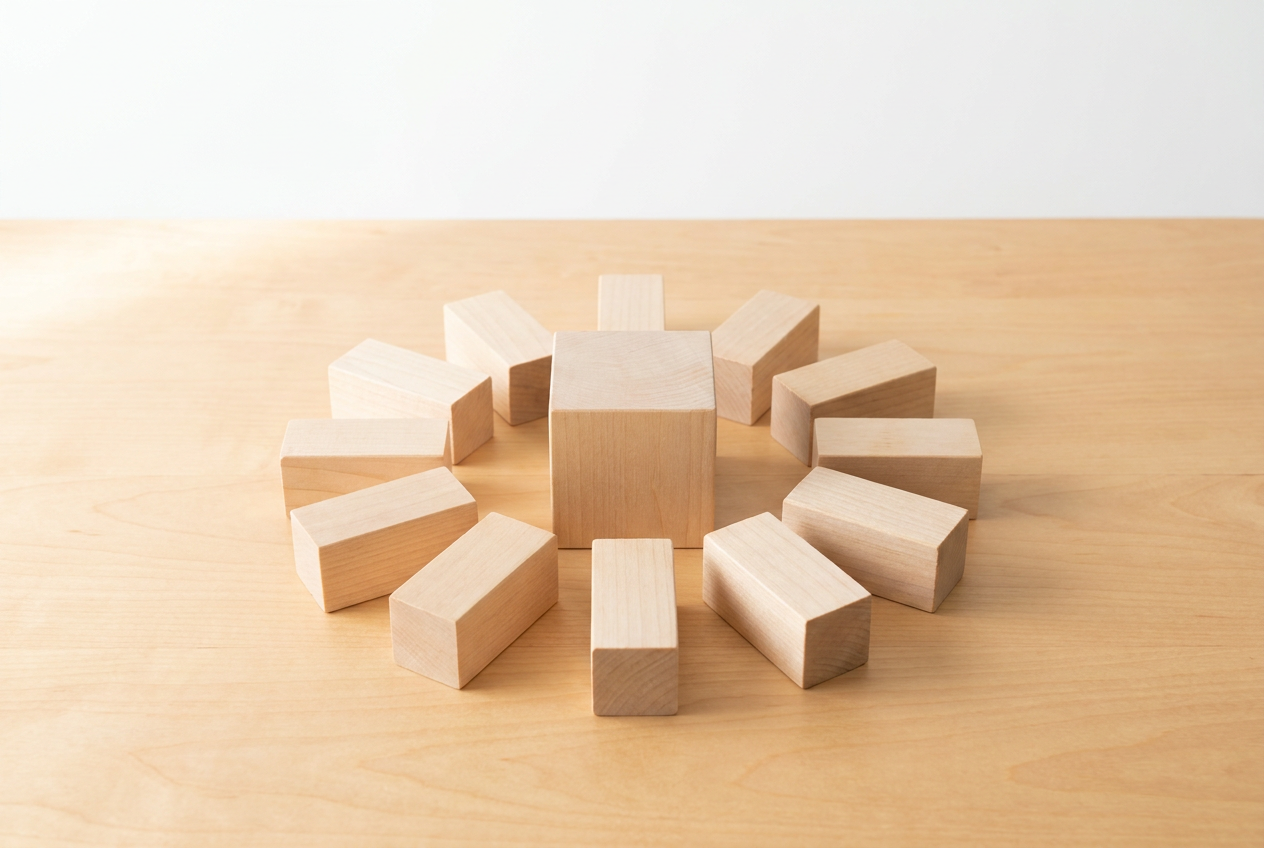
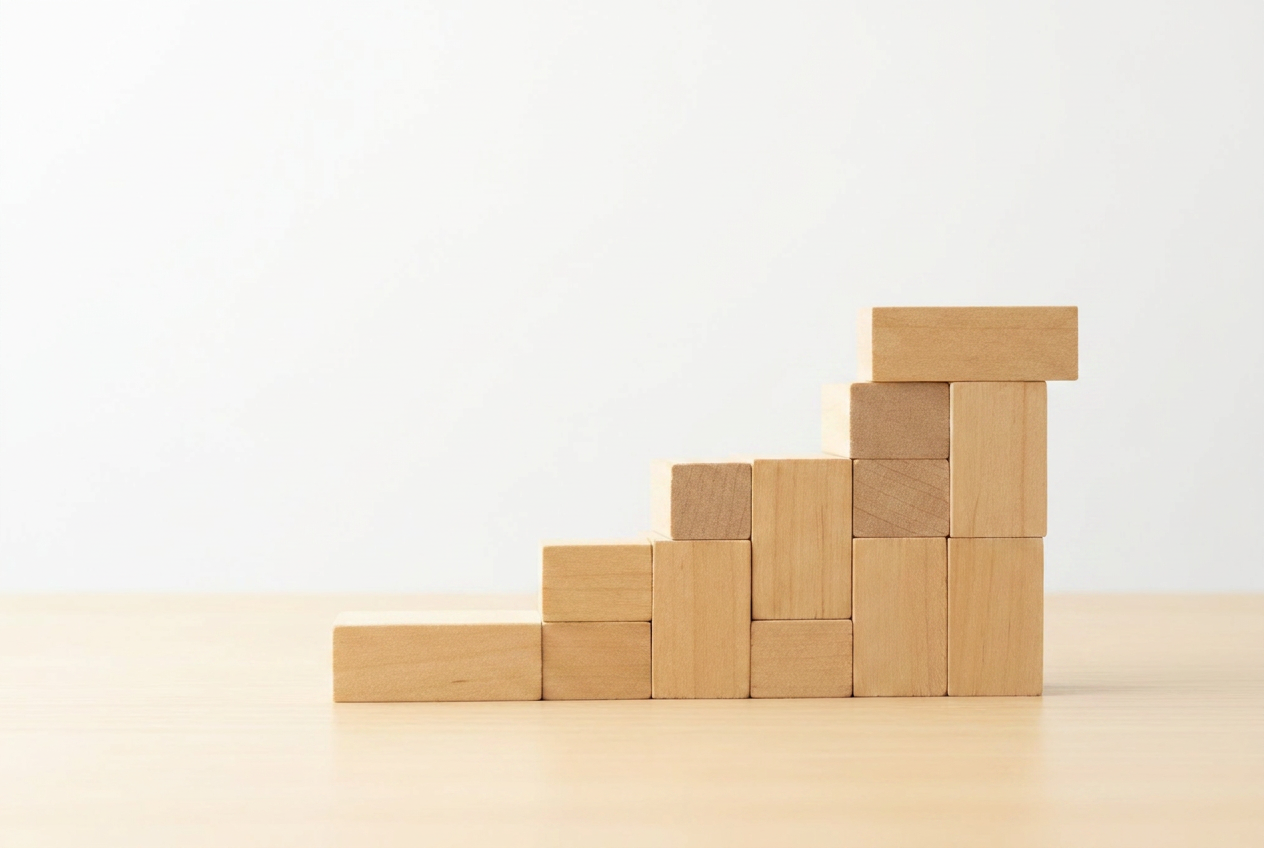
Imagenes 3x2 originales, heroes redondeados, Experiencia rediseñada, Quienes somos fix

diff --git a/src/components/Experience.tsx b/src/components/Experience.tsx
@@ -1,23 +1,36 @@
 import { motion } from "framer-motion";
-import { Globe } from "lucide-react";
+import { Globe, TrendingUp, Users, Cpu } from "lucide-react";
 
-const experiences = [
+const highlights = [
   {
-    org: "Utel Universidad",
-    role: "Gerencia Sr. de Mejora Continua",
-    period: "3 años",
+    icon: Globe,
+    title: "Expansión a 8+ países",
     description:
-      "Universidad 100% online con presencia en más de 8 países de América Latina. Lideramos procesos de mejora en calidad académica, formación de equipos y operaciones digitales a escala regional.",
-    type: "Universidad online",
+      "Lideramos la apertura de operaciones educativas en más de 8 países de América Latina: research de mercado, setup comercial, atención y vinculación institucional.",
   },
   {
-    org: "Griky",
-    role: "Arquitectura Operativa",
-    period: "Actual",
+    icon: TrendingUp,
+    title: "Mejora continua a escala",
     description:
-      "Ed tech especializada en desarrollo de portafolio académico para universidades. Trabajamos en eficientar la fábrica de contenido: desde la detección de demanda hasta la entrega del curso en el LMS.",
-    type: "Ed tech",
+      "Diseñamos e implementamos sistemas de mejora continua en organizaciones educativas con operaciones distribuidas, logrando consistencia sin uniformidad forzada.",
   },
+  {
+    icon: Users,
+    title: "Formación de equipos operativos",
+    description:
+      "Desarrollamos equipos comerciales, de soporte y líderes intermedios en contextos de crecimiento rápido, donde no hay tiempo para aprender de cero.",
+  },
+  {
+    icon: Cpu,
+    title: "Transformación de procesos con tecnología",
+    description:
+      "Acompañamos procesos de adopción tecnológica en organizaciones educativas: desde el rediseño del flujo hasta que el equipo lo sostiene solo.",
+  },
+];
+
+const clients = [
+  { name: "Utel Universidad", type: "Universidad online · 3 años" },
+  { name: "Griky", type: "Ed tech · Actual" },
 ];
 
 export default function Experience() {
@@ -30,56 +43,54 @@ export default function Experience() {
           viewport={{ once: true }}
           transition={{ duration: 0.5 }}
         >
-          <h2 className="heading-lg mb-2">Experiencia en el sector</h2>
+          <h2 className="heading-lg mb-2">Lo que sabemos hacer</h2>
           <p className="text-muted-foreground mb-10 max-w-xl">
-            Hemos trabajado desde adentro de organizaciones de educación. No como observadores externos, sino gestionando equipos, rediseñando procesos y midiendo resultados.
+            Experiencia acumulada trabajando desde adentro de organizaciones educativas, no desde afuera.
           </p>
 
-          <div className="grid md:grid-cols-2 gap-6 mb-8">
-            {experiences.map((exp, i) => (
+          {/* Tarjetas de capacidades */}
+          <div className="grid md:grid-cols-2 gap-5 mb-14">
+            {highlights.map((item, i) => (
               <motion.div
                 key={i}
-                initial={{ opacity: 0, y: 16 }}
+                initial={{ opacity: 0, y: 12 }}
                 whileInView={{ opacity: 1, y: 0 }}
                 viewport={{ once: true }}
-                transition={{ duration: 0.4, delay: i * 0.1 }}
-                className="rounded-xl border bg-white p-6 shadow-sm"
+                transition={{ duration: 0.35, delay: i * 0.08 }}
+                className="rounded-xl border bg-white p-6 shadow-sm flex gap-4"
               >
-                <span className="text-xs font-medium text-primary bg-primary/10 px-3 py-1 rounded-full">
-                  {exp.type}
-                </span>
-                <h3 className="text-xl font-semibold mt-4">{exp.org}</h3>
-                <p className="text-sm text-muted-foreground mt-1">
-                  {exp.role} · {exp.period}
-                </p>
-                <p className="mt-4 text-base leading-relaxed text-foreground/80">
-                  {exp.description}
-                </p>
+                <div className="flex-shrink-0 mt-1">
+                  <div className="bg-primary/10 p-2 rounded-lg">
+                    <item.icon className="h-5 w-5 text-primary" />
+                  </div>
+                </div>
+                <div>
+                  <h3 className="font-semibold text-base mb-1">{item.title}</h3>
+                  <p className="text-sm text-muted-foreground leading-relaxed">{item.description}</p>
+                </div>
               </motion.div>
             ))}
           </div>
 
-          {/* Bloque expansión regional */}
-          <motion.div
-            initial={{ opacity: 0, y: 16 }}
-            whileInView={{ opacity: 1, y: 0 }}
-            viewport={{ once: true }}
-            transition={{ duration: 0.4, delay: 0.2 }}
-            className="rounded-xl border bg-slate-900 text-white p-8 shadow-sm"
-          >
-            <div className="flex items-start gap-4">
-              <div className="bg-white/10 p-3 rounded-lg flex-shrink-0">
-                <Globe className="h-6 w-6 text-white" />
-              </div>
-              <div>
-                <span className="text-xs font-medium text-white/60 uppercase tracking-wider">Capacidad regional</span>
-                <h3 className="text-xl font-semibold mt-2 mb-3">Expansión a nuevos mercados</h3>
-                <p className="text-white/70 leading-relaxed">
-                  Hemos liderado la apertura de operaciones educativas en más de 8 países de América Latina. El trabajo va desde el research de cada mercado hasta el setup completo: equipos comerciales, atención al estudiante y vinculación institucional. Sabemos lo que implica llevar una propuesta educativa a un contexto nuevo y hacerla funcionar desde el primer día.
-                </p>
-              </div>
+          {/* Clientes / casos */}
+          <div>
+            <p className="text-xs font-medium text-muted-foreground uppercase tracking-wider mb-4">
+              Organizaciones con las que hemos trabajado
+            </p>
+            <div className="flex flex-wrap gap-3">
+              {clients.map((c, i) => (
+                <div
+                  key={i}
+                  className="inline-flex items-center gap-3 rounded-lg border bg-white px-4 py-3 shadow-sm"
+                >
+                  <div>
+                    <p className="text-sm font-semibold leading-none">{c.name}</p>
+                    <p className="text-xs text-muted-foreground mt-1">{c.type}</p>
+                  </div>
+                </div>
+              ))}
             </div>
-          </motion.div>
+          </div>
 
         </motion.div>
       </div>

diff --git a/src/pages/QuienesSomos.tsx b/src/pages/QuienesSomos.tsx
@@ -21,9 +21,9 @@ const QuienesSomos = () => {
           transition={{ duration: 0.6 }}
         >
           {/* Encabezado */}
-          <div className="mb-10">
-            <h1 className="text-4xl md:text-5xl font-bold mb-6">Quiénes somos</h1>
-            <p className="text-xl text-muted-foreground max-w-2xl leading-relaxed">
+          <div className="mb-6">
+            <h1 className="text-4xl md:text-5xl font-bold mb-4">Quiénes somos</h1>
+            <p className="text-xl text-muted-foreground leading-relaxed">
               Praxia es una consultora especializada en organizaciones de educación superior y ed tech. Trabajamos en la brecha entre la estrategia y la ejecución: el lugar donde más se pierde.
             </p>
           </div>
@@ -34,7 +34,7 @@ const QuienesSomos = () => {
               src="/images/quienes-somos-hero.png"
               alt="Quiénes somos — Praxia"
               className="w-full object-cover"
-              style={{ maxHeight: "400px", objectPosition: "50% 40%" }}
+              style={{ maxHeight: "420px", objectPosition: "50% 40%" }}
             />
           </div>
 

diff --git a/src/index.css b/src/index.css
@@ -59,6 +59,7 @@
     overflow: hidden;
     position: relative;
     background-color: hsl(var(--muted));
+    border-radius: 12px;
   }
 
   .hero-image {
